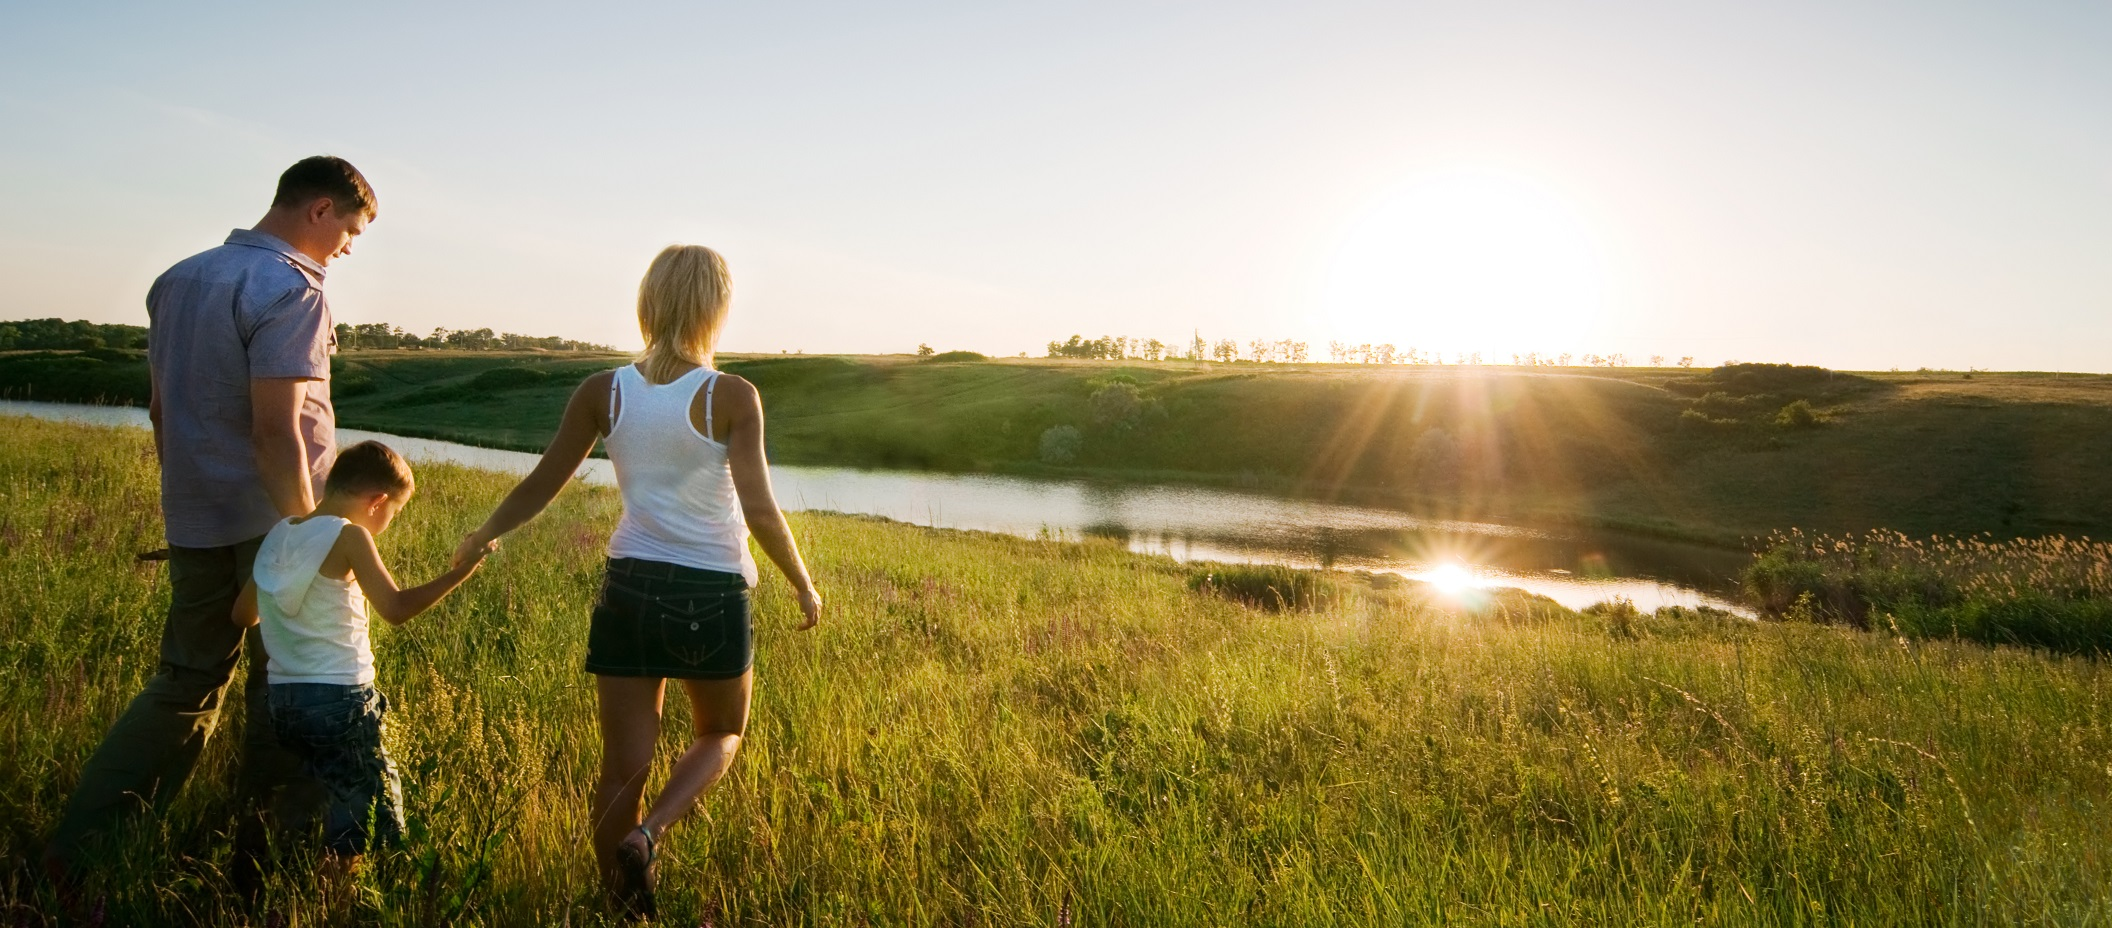
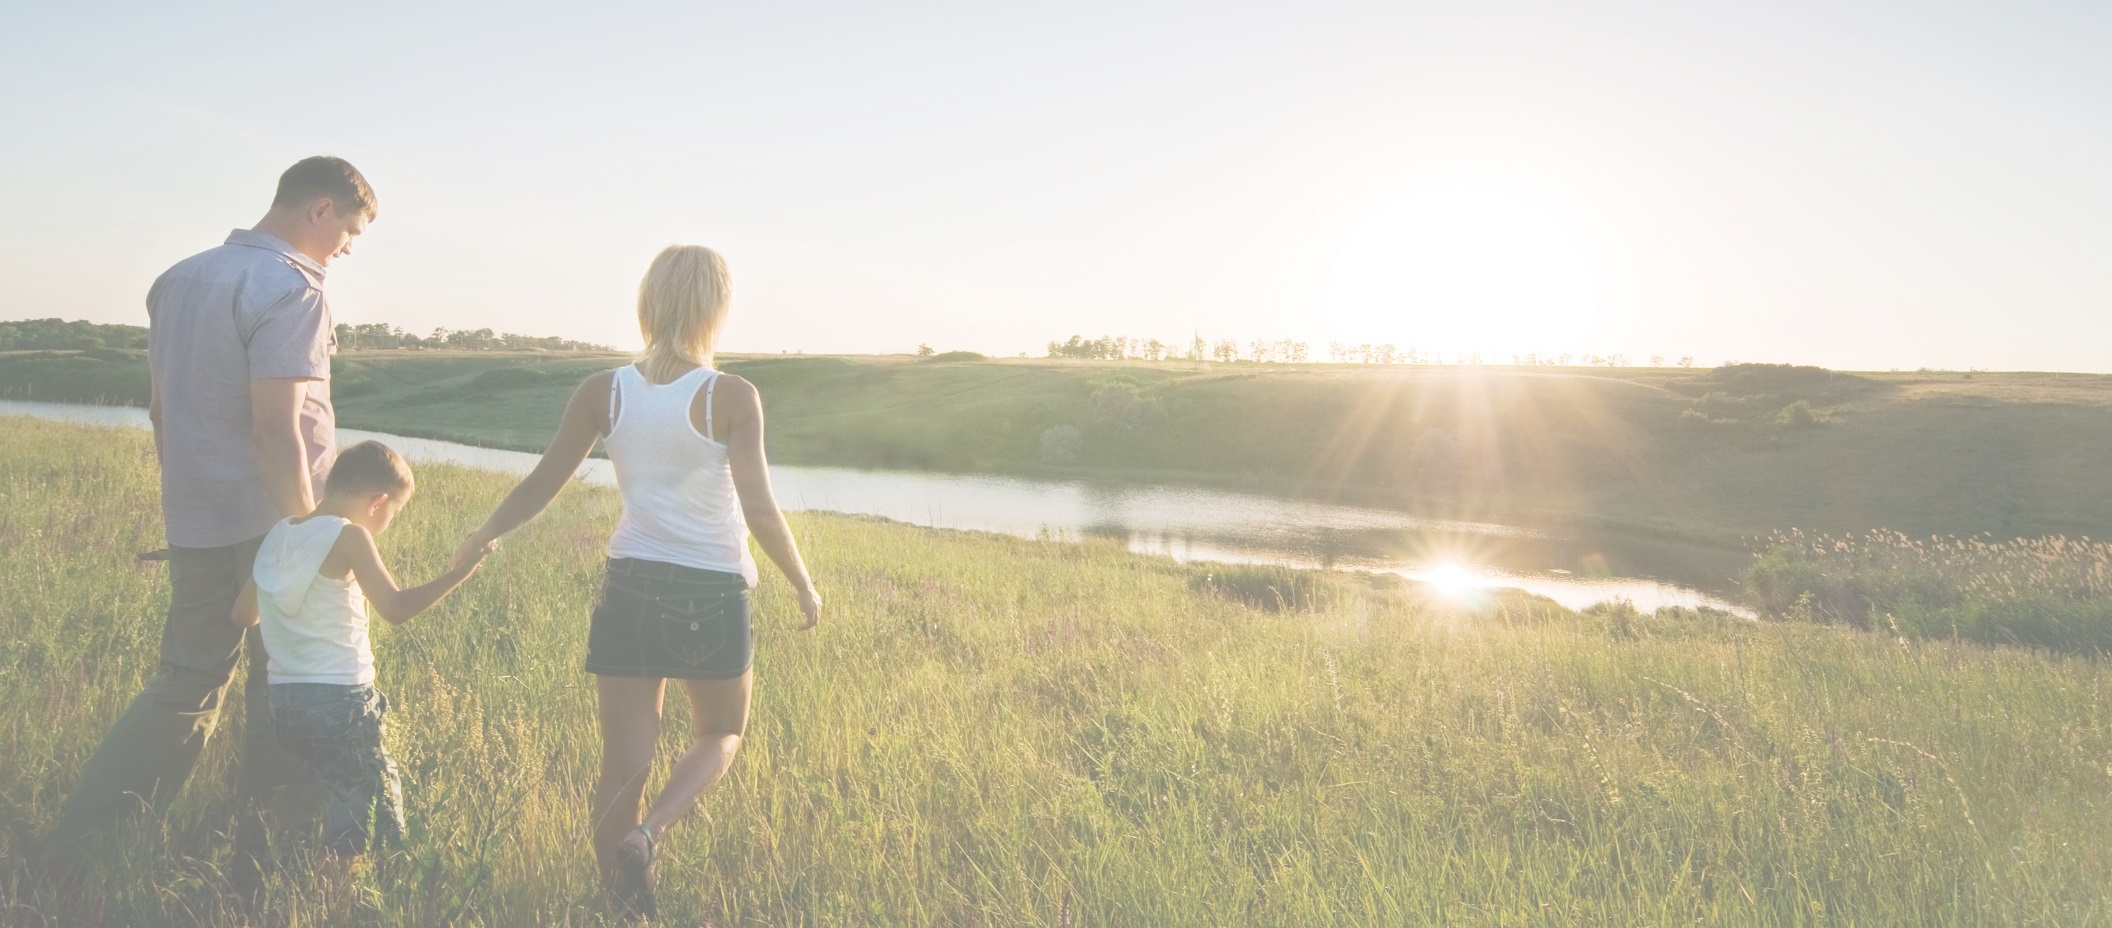
Opmaak Site veranderd (en plaatje)
En promotionele tekst toegevoegd

diff --git a/assets/css/style.css b/assets/css/style.css
@@ -1,9 +1,40 @@
 *{
-    font-family: sans-serif;
-
+    font-family: "Calibri",sans-serif;
+    color: black;
+    font-size: 1.1rem;
 }
+
+h1{
+    text-align: center;
+    color: lightseagreen;
+    font-size: 2em;
+}
+
+h2{
+    text-align: center;
+    color: #333;
+    font-size: 1.5em;
+}
+
+#promotie{
+    margin: auto;
+    width: 70%;
+    background-color: white;
+    border-radius: 25px;
+    padding: 20px;
+    margin-bottom: 20px;
+}
+
+#content{
+    background-image: url("../img/plaatje.jpg");
+    background-repeat: no-repeat;
+    background-color: lightgray;
+    border-radius: 25px;
+    padding: 20px;
+}
+
 body{
-    background-color: lightgrey;
+    background-color: white;
     margin-top: 150px;
     width: 70%;
     margin-left: 15%;
@@ -71,17 +102,8 @@ nav li a:hover {
 
 }
 
-#Home{
 
 
-}
-
-#Home p {
-
-
-
-
-}
 #previews{
     width: 100%;
 

diff --git a/application/views/pages/home.php b/application/views/pages/home.php
@@ -1,13 +1,12 @@
-<div id="Home">
-    <div id="foto">
-        <img src="assets/img/plaatje.jpg">
-
-         </div>
-
-<p>Welcome bij DataDate!!</br>
-    De datingsite waar u gematcht wordt op basis van uw persoonlijkheid en likes die u geeft aan andere gebruikers van deze site.
-    Lorem ipsum dolor sit amet, consectetur adipiscing elit. Quisque tempus tellus nulla, nec condimentum tortor tristique eget. Aliquam dapibus elit sed nulla convallis commodo. Mauris nec dapibus est. Etiam ipsum enim, imperdiet sit amet sapien vitae, mattis venenatis sem. Sed posuere felis non odio auctor, porttitor tempus ligula condimentum. Phasellus lectus sem, fringilla nec nunc quis, mollis viverra justo.
-</p>
+<h1>Welkom bij DataDate!</h1></br>
+    <h2>"Hadden we eerder van deze site geweten..."</h2>
+    <h2>"Een nieuw begin..."</h2>
+    <h2>"Daten is dope, Data is leven..."</h2>
+    <div id="promotie">Dè datingsite waar u gematcht wordt op basis van uw persoonlijkheid en likes die u geeft aan andere gebruikers van deze site.
+    Reuze fijn dat u deze site heeft aangeklikt. Zoek niet verder, u zult het niet beter treffen. Wij bieden uw toekomstige partner!
+    Heeft u vaak net achter het net gevist en wilt u fijn gaan daten? Dit kan, DataDate bied een rijke keuze aan mensen. Schrijf u vandaag nog in!
+    Daten is ons leven, daten is Data. Daten is DataDate!
+    </div>
 
 <div id="previews">
     <div class="preview">
@@ -374,4 +373,3 @@
     <a id="meer" href="javascript:location.reload(true)">Meer profielen</a>
 
 
-</div>

diff --git a/application/views/templates/header.php b/application/views/templates/header.php
@@ -1,3 +1,4 @@
+
 <html>
         <head>
                 <title>DataDate</title>
@@ -22,3 +23,4 @@
         </div>
         </header>
         <body>
+        <div id="content">

diff --git a/application/views/home_view.php b/application/views/home_view.php
@@ -1,3 +1,3 @@
 <h1>Home</h1>
-<h2>Welcome <?php echo $username; ?>!</h2>
+<h2>Welkom <?php echo $username; ?>!</h2>
 <a href="home/logout">Logout</a>

diff --git a/application/views/templates/footer.php b/application/views/templates/footer.php
@@ -1,6 +1,8 @@
+</div>
 </body>
 <footer>
         <em>&copy; 2016</em>
 </footer>
 <html>
+
 
